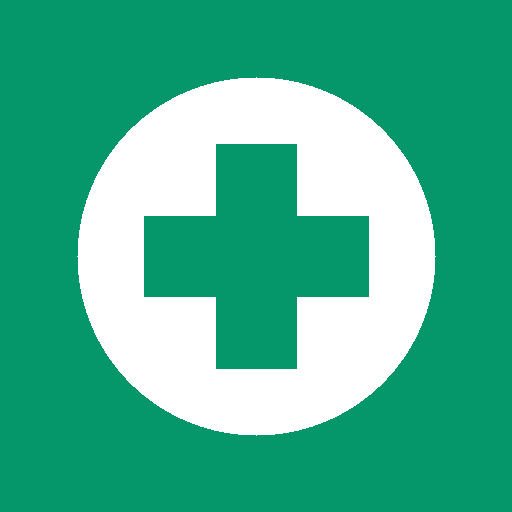
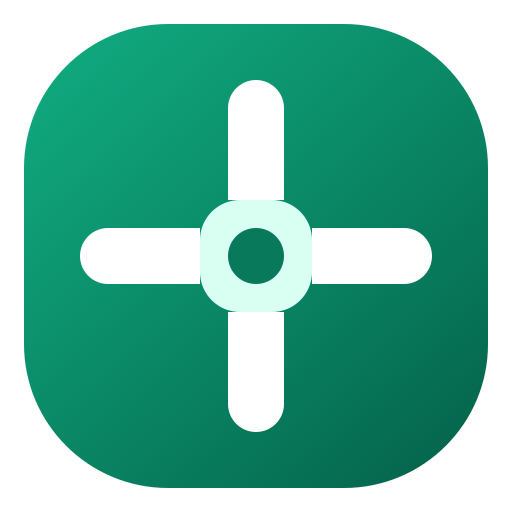
Apply MedCareAxis branding across applications

diff --git a/frontend/patient-portal/src/components/brand/BrandLogo.jsx b/frontend/patient-portal/src/components/brand/BrandLogo.jsx
@@ -1,0 +1,30 @@
+export function BrandMark({ className = 'h-10 w-10', title }) {
+  return (
+    <svg className={className} viewBox="0 0 64 64" role={title ? 'img' : undefined} aria-hidden={title ? undefined : true} xmlns="http://www.w3.org/2000/svg">
+      {title && <title>{title}</title>}
+      <defs>
+        <linearGradient id="medcareaxis-mark" x1="9" y1="7" x2="55" y2="58" gradientUnits="userSpaceOnUse">
+          <stop stopColor="#10A77D"/><stop offset="1" stopColor="#05664D"/>
+        </linearGradient>
+      </defs>
+      <rect x="3" y="3" width="58" height="58" rx="18" fill="url(#medcareaxis-mark)"/>
+      <path d="M28.5 13.5a3.5 3.5 0 0 1 7 0V25h-7V13.5ZM28.5 39h7v11.5a3.5 3.5 0 0 1-7 0V39ZM13.5 28.5H25v7H13.5a3.5 3.5 0 0 1 0-7ZM39 28.5h11.5a3.5 3.5 0 0 1 0 7H39v-7Z" fill="white"/>
+      <rect x="25" y="25" width="14" height="14" rx="5" fill="#D9FFF2"/>
+      <circle cx="32" cy="32" r="3.5" fill="#087A5B"/>
+    </svg>
+  )
+}
+
+export default function BrandLogo({ className = '', markClassName = 'h-10 w-10', wordmarkClassName = 'text-xl', inverse = false, subtitle }) {
+  return (
+    <span className={`inline-flex items-center gap-3 ${className}`}>
+      <BrandMark className={markClassName} title="MedCareAxis" />
+      <span className="flex flex-col text-left leading-none">
+        <span className={`${wordmarkClassName} font-extrabold tracking-[-.045em] ${inverse ? 'text-white' : 'text-slate-950'}`}>
+          MedCare<span className={inverse ? 'text-emerald-300' : 'text-emerald-600'}>Axis</span>
+        </span>
+        {subtitle && <span className={`mt-1 text-[10px] font-semibold tracking-[.12em] uppercase ${inverse ? 'text-emerald-200/70' : 'text-slate-400'}`}>{subtitle}</span>}
+      </span>
+    </span>
+  )
+}

diff --git a/frontend/hospital/src/pages/superadmin/SuperAdminLayout.jsx b/frontend/hospital/src/pages/superadmin/SuperAdminLayout.jsx
@@ -2,7 +2,8 @@ import { useState, useEffect } from 'react'
 import { useNavigate, useLocation } from 'react-router-dom'
 import { useAuth } from '../../context/AuthContext'
 import api from '../../services/api'
-import { Activity, Bell, Building2, CreditCard, FileClock, HeartPulse, LayoutDashboard, Megaphone, Plus, Settings, TicketCheck } from 'lucide-react'
+import BrandLogo from '../../components/brand/BrandLogo'
+import { Activity, Bell, Building2, CreditCard, FileClock, HeartPulse, LayoutDashboard, Megaphone, Settings, TicketCheck } from 'lucide-react'
 
 const NAV = [
   { icon: LayoutDashboard,  label: 'Dashboard',     path: '/super-admin' },
@@ -35,13 +36,7 @@ export default function SuperAdminLayout({ children, title, subtitle }) {
       <aside className="w-60 bg-slate-900 flex flex-col flex-shrink-0">
         {/* Logo */}
         <div className="px-5 py-5 border-b border-slate-700">
-          <div className="flex items-center gap-3">
-            <div className="w-9 h-9 bg-emerald-500 rounded-xl flex items-center justify-center font-bold text-white text-lg"><Plus className="w-5 h-5" /></div>
-            <div>
-              <div className="text-white font-bold text-sm">MedCareAxis</div>
-              <div className="text-emerald-400 text-xs font-medium">Super Admin</div>
-            </div>
-          </div>
+          <BrandLogo inverse markClassName="h-10 w-10" wordmarkClassName="text-base" subtitle="Super Admin" />
         </div>
 
         {/* Nav */}

diff --git a/frontend/hospital/src/components/layout/Layout.jsx b/frontend/hospital/src/components/layout/Layout.jsx
@@ -2,7 +2,8 @@ import { useState, useEffect, useRef } from 'react'
 import { Link, useLocation, useNavigate } from 'react-router-dom'
 import { useAuth } from '../../context/AuthContext'
 import api from '../../services/api'
-import { Activity, BedDouble, Bell, CalendarDays, ChevronDown, ChevronRight, CircleHelp, CreditCard, FileBarChart, FlaskConical, LayoutDashboard, LogOut, Menu, MoreHorizontal, Pill, Plus, Settings, Stethoscope, Users, WalletCards } from 'lucide-react'
+import { BrandMark } from '../brand/BrandLogo'
+import { Activity, BedDouble, Bell, CalendarDays, ChevronDown, ChevronRight, CircleHelp, CreditCard, FileBarChart, FlaskConical, LayoutDashboard, LogOut, Menu, MoreHorizontal, Pill, Settings, Stethoscope, Users, WalletCards } from 'lucide-react'
 
 const ALL_NAV = [
   { section: 'Main' },
@@ -197,9 +198,7 @@ export default function Layout({ children }) {
         {/* Logo */}
         <div className="p-4 border-b border-white/10">
           <div className="flex items-center gap-3">
-            <div className="w-8 h-8 bg-emerald-500 rounded-lg flex items-center justify-center text-white font-bold flex-shrink-0">
-              <Plus className="w-5 h-5" />
-            </div>
+            <BrandMark className="w-9 h-9 flex-shrink-0" />
             {sidebarOpen && (
               <div>
                 <div className="text-white font-bold text-sm">MedCareAxis</div>

diff --git a/frontend/patient-portal/src/pages/Home.jsx b/frontend/patient-portal/src/pages/Home.jsx
@@ -2,6 +2,7 @@ import { useState, useEffect, useRef } from 'react'
 import { useNavigate } from 'react-router-dom'
 import { useAuth } from '../context/AuthContext'
 import api from '../services/api'
+import { BrandMark } from '../components/brand/BrandLogo'
 
 const STEPS = [
   { step: 1, label: 'Registered',         icon: '✓',  color: 'emerald' },
@@ -148,10 +149,13 @@ export default function Home() {
       {/* Header */}
       <div className="bg-emerald-600 text-white px-4 pt-8 pb-16">
         <div className="flex items-center justify-between mb-2">
-          <div>
-            <p className="text-emerald-200 text-sm">Welcome back</p>
-            <h1 className="text-xl font-bold">{user?.fullName}</h1>
-            <p className="text-emerald-200 text-xs mt-0.5">{user?.hospitalName}</p>
+          <div className="flex items-center gap-3">
+            <BrandMark className="h-11 w-11 flex-shrink-0" />
+            <div>
+              <p className="text-emerald-100 text-xs">Welcome back</p>
+              <h1 className="text-xl font-bold">{user?.fullName}</h1>
+              <p className="text-emerald-100 text-xs mt-0.5">{user?.hospitalName}</p>
+            </div>
           </div>
           <button onClick={logout} className="text-emerald-200 hover:text-white text-sm">
             Logout

diff --git a/frontend/hospital/src/pages/auth/ForgotPassword.jsx b/frontend/hospital/src/pages/auth/ForgotPassword.jsx
@@ -1,6 +1,7 @@
 import { useState } from 'react'
 import { Link, useNavigate } from 'react-router-dom'
 import { authService } from '../../services/authService'
+import BrandLogo from '../../components/brand/BrandLogo'
 
 export default function ForgotPassword() {
   const [step, setStep] = useState('email') // 'email' | 'reset'
@@ -50,11 +51,7 @@ export default function ForgotPassword() {
       <div className="w-full max-w-md">
 
         <div className="text-center mb-8">
-          <div className="inline-flex items-center justify-center w-16 h-16 bg-emerald-600 rounded-2xl mb-4">
-            <span className="text-white text-2xl font-bold">✚</span>
-          </div>
-          <h1 className="text-3xl font-bold text-gray-900">MedCareAxis</h1>
-          <p className="text-gray-500 mt-1">Reset your password</p>
+          <BrandLogo className="justify-center" markClassName="h-20 w-20" wordmarkClassName="text-3xl" subtitle="Reset your password" />
         </div>
 
         <div className="bg-white rounded-2xl shadow-xl p-8">

diff --git a/frontend/patient-portal/src/pages/Login.jsx b/frontend/patient-portal/src/pages/Login.jsx
@@ -1,6 +1,7 @@
 import { useState } from 'react'
 import { useNavigate } from 'react-router-dom'
 import { useAuth } from '../context/AuthContext'
+import BrandLogo from '../components/brand/BrandLogo'
 
 export default function Login() {
   const [tab, setTab] = useState('hospital')
@@ -82,11 +83,7 @@ export default function Login() {
       <div className="w-full max-w-md">
 
         <div className="text-center mb-8">
-          <div className="w-16 h-16 bg-emerald-600 rounded-2xl flex items-center justify-center mx-auto mb-4">
-            <span className="text-white text-2xl">🏥</span>
-          </div>
-          <h1 className="text-2xl font-bold text-gray-900">MedCareAxis</h1>
-          <p className="text-gray-500 text-sm mt-1">Patient Portal</p>
+          <BrandLogo className="justify-center" markClassName="h-20 w-20" wordmarkClassName="text-3xl" subtitle="Patient Portal" />
         </div>
 
         <div className="bg-white rounded-2xl shadow-xl overflow-hidden">
